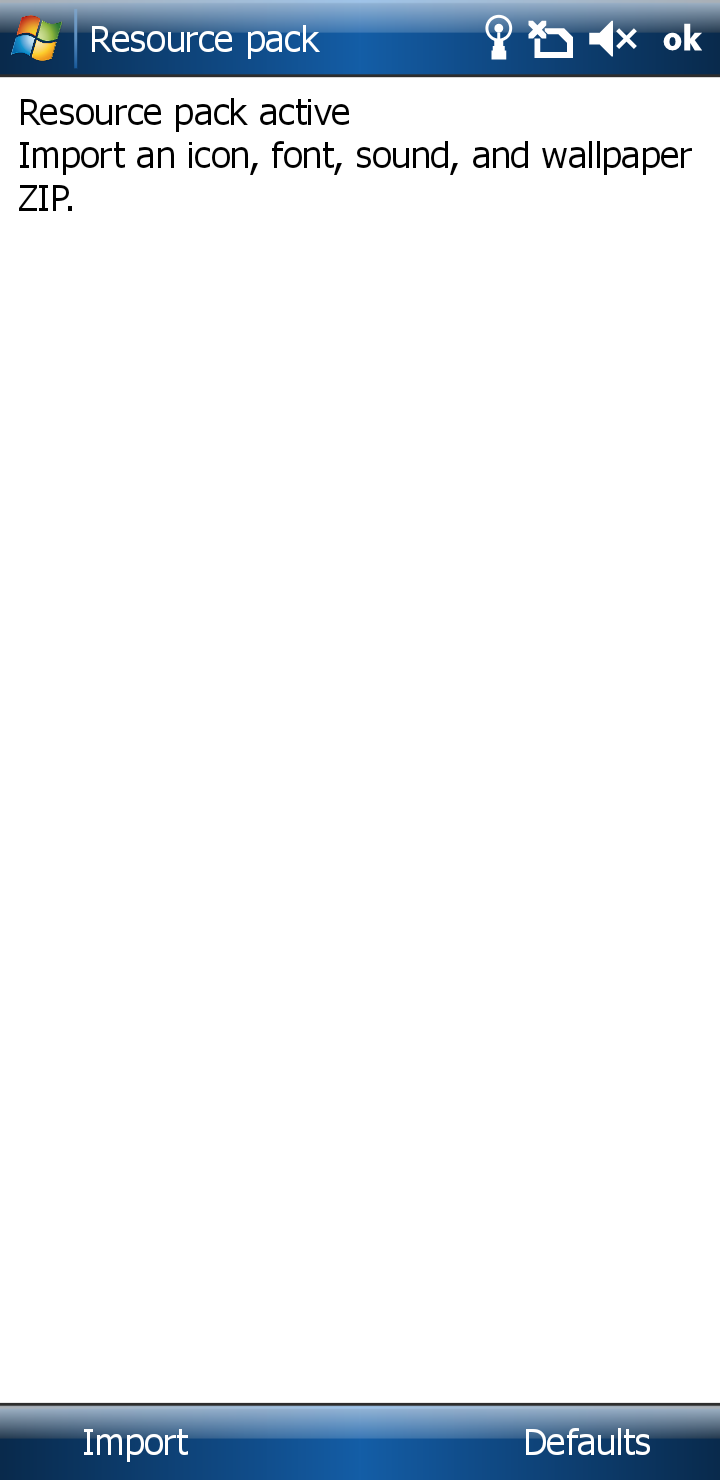
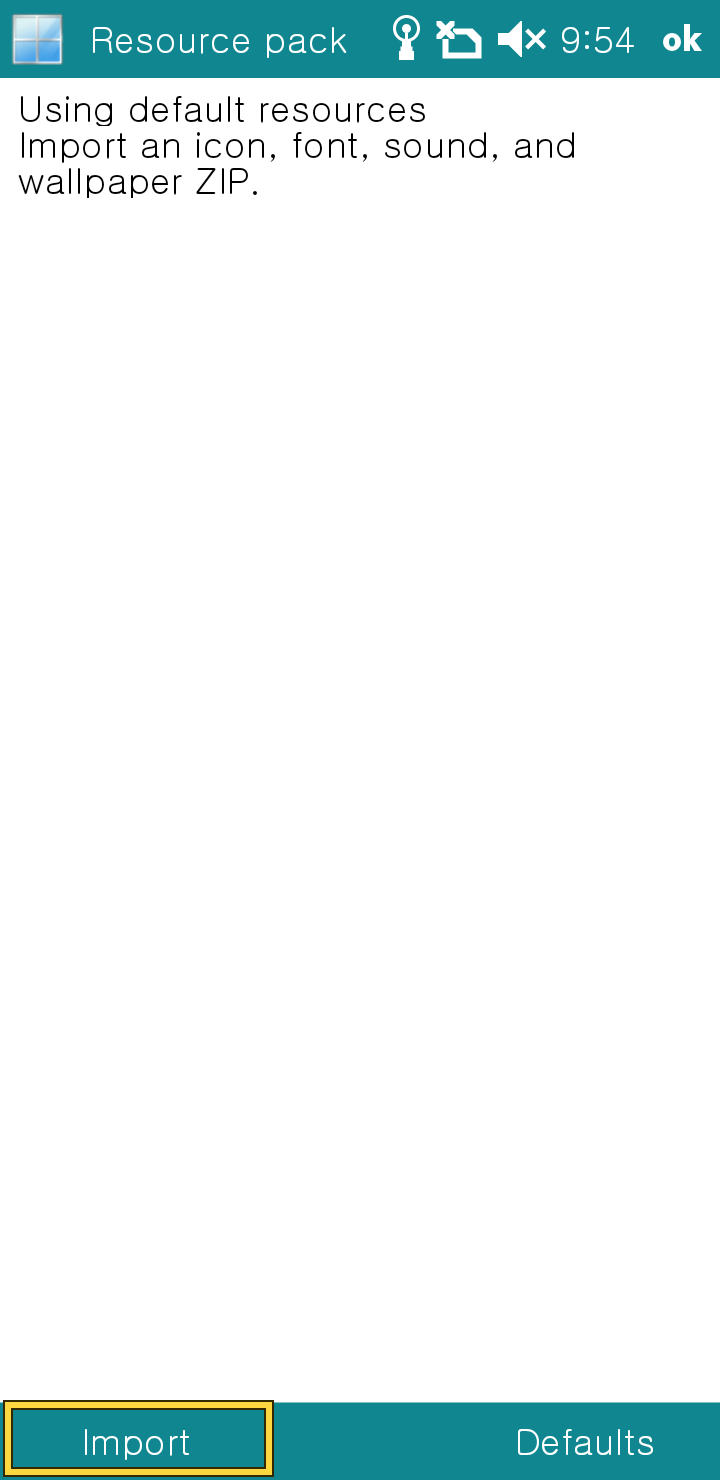
docs: show clean resource pack import steps

Changed region(s): [[0.0, 0.0, 1.0, 0.1554], [0.0, 0.9324, 1.0, 1.0]]

diff --git a/README.ko.md b/README.ko.md
@@ -74,11 +74,24 @@ python3 extract_pack.py --vista-iso /path/vista_x64.iso \
 기기 언어를 따르려면 **시스템 언어**를 선택하세요.
 SDK 앱도 런처에 적용한 팩을 사용합니다. SDK 앱에 별도의 팩을 넣을 필요는 없습니다.
 
-가져오기를 누르면 ZIP 선택기가 열립니다. 아래는 팩 적용을 마친 화면입니다.
+아래는 개인 설정과 리소스팩이 없는 초기 화면입니다. 노란 테두리로 표시한 버튼을
+차례로 누르세요. **가져오기**를 누르면 ZIP 선택기가 열립니다.
 
-<img src="docs/images/resource-pack-ko.png" alt="리소스팩 적용 중 상태와 가져오기 버튼" width="320">
+1. 시작을 누릅니다.
 
-<img src="docs/images/language-ko.png" alt="시스템 언어 선택 항목이 있는 언어 설정 화면" width="320">
+<img src="docs/images/open-start-ko.png" alt="1. 시작을 누릅니다." width="320">
+
+2. 설정을 선택합니다.
+
+<img src="docs/images/open-settings-ko.png" alt="2. 설정을 선택합니다." width="320">
+
+3. 개인 탭에서 리소스팩을 선택합니다.
+
+<img src="docs/images/open-resource-pack-ko.png" alt="3. 개인 탭에서 리소스팩을 선택합니다." width="320">
+
+4. 가져오기를 누르고 생성한 ZIP을 선택합니다.
+
+<img src="docs/images/resource-pack-ko.png" alt="4. 가져오기를 누르고 생성한 ZIP을 선택합니다." width="320">
 
 ## 팩 편집
 

diff --git a/README.md b/README.md
@@ -102,11 +102,24 @@ choice once. Later selections survive restarts and updates; select **System lang
 to clear a selection.
 SDK apps use the launcher's selected pack; do not import a second pack into them.
 
-Import opens the ZIP picker. The screenshot shows a pack already applied.
+The screens below use a fresh instance without a resource pack. The yellow
+outline marks the next button. **Import** opens the ZIP picker.
 
-<img src="docs/images/resource-pack-en.png" alt="Resource pack settings: pack active and Import command" width="320">
+1. Open Start.
 
-<img src="docs/images/language-en.png" alt="Language settings with System language selected as an available option" width="320">
+<img src="docs/images/open-start-en.png" alt="1. Open Start." width="320">
+
+2. Select Settings.
+
+<img src="docs/images/open-settings-en.png" alt="2. Select Settings." width="320">
+
+3. On the Personal tab, select Resource pack.
+
+<img src="docs/images/open-resource-pack-en.png" alt="3. On the Personal tab, select Resource pack." width="320">
+
+4. Select Import, then choose the generated ZIP.
+
+<img src="docs/images/resource-pack-en.png" alt="4. Select Import, then choose the generated ZIP." width="320">
 
 ## Edit a pack
 
